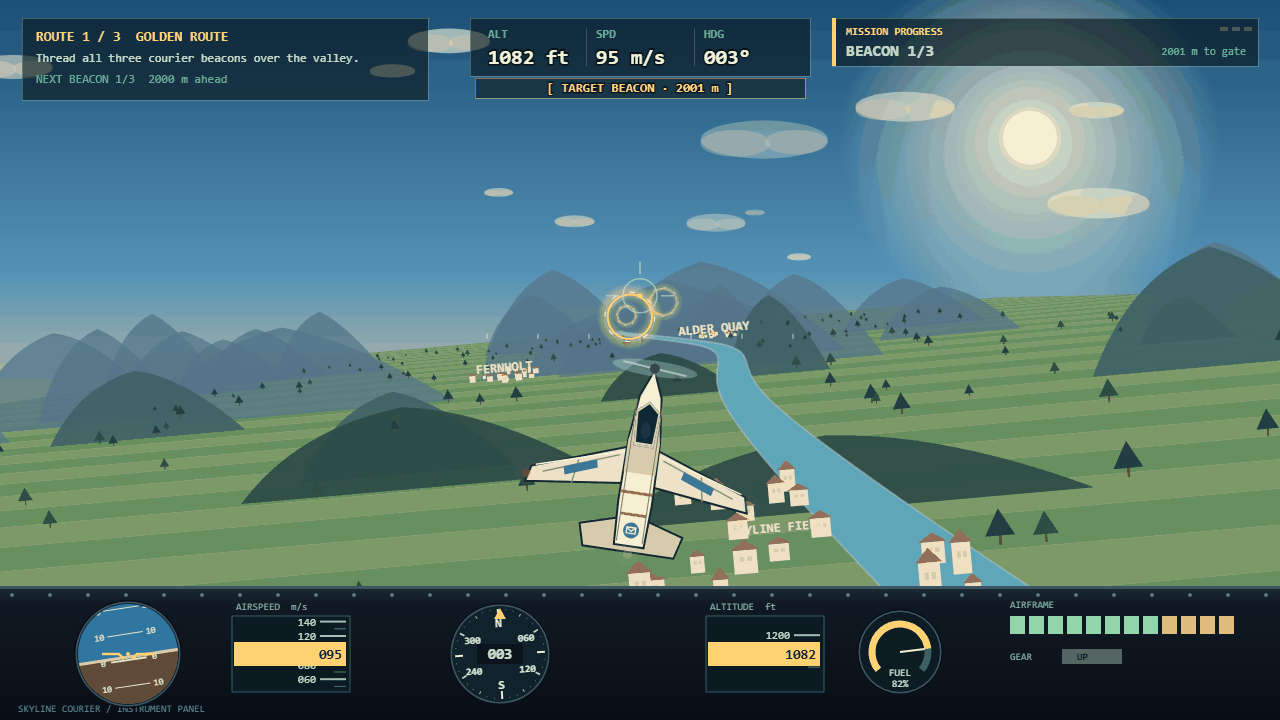
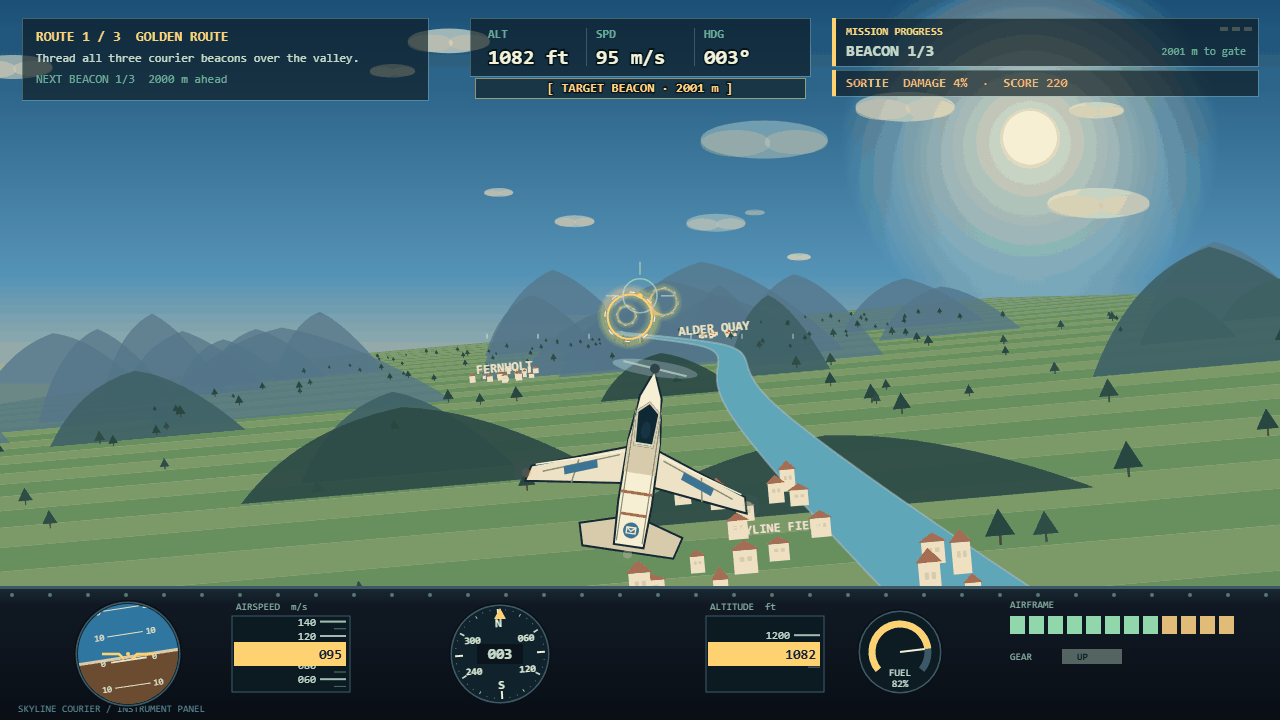
Add sortie damage and score cue to HUD

Changed region(s): [[0.625, 0.0917, 1.0, 0.1528]]

diff --git a/game/src/main.js b/game/src/main.js
@@ -53,6 +53,21 @@ function targetInfo(state) {
   };
 }
 
+// This readout consumes existing state only: hull damage plus a fixed score
+// made from cleared gates, route completion and the remaining target range.
+function sortieStats(state) {
+  const p = state.plane;
+  const mission = MISSIONS[state.missionIndex];
+  const target = targetInfo(state);
+  const damage = Math.max(0, Math.min(100, Math.round(p.damage)));
+  const gates = state.mission.ringsPassed * 350;
+  const cleared = state.mission.complete ? 600 : 0;
+  const approach = mission.kind === 'rings' && !target.done
+    ? Math.max(0, 300 - Math.floor(target.distance / 25))
+    : Math.max(0, Math.round(p.fuel) * 2);
+  return { damage, score: Math.max(0, gates + cleared + approach) };
+}
+
 function drawMissionStrip(ctx, state) {
   const mission = MISSIONS[state.missionIndex];
   const target = targetInfo(state);
@@ -103,6 +118,24 @@ function drawMissionStrip(ctx, state) {
   ctx.fillText(detail, x + w - 12, y + 37);
 }
 
+// A single compact line tucked under the mission strip and beside the callout.
+function drawSortiePanel(ctx, state) {
+  const { damage, score } = sortieStats(state);
+  const text = `SORTIE  DAMAGE ${damage}%  ·  SCORE ${score}`;
+  const x = 832, y = 70, w = 426, h = 26;
+  ctx.fillStyle = 'rgba(8, 20, 25, 0.62)';
+  ctx.fillRect(x, y, w, h);
+  ctx.strokeStyle = 'rgba(150, 220, 185, 0.35)';
+  ctx.lineWidth = 1;
+  ctx.strokeRect(x + 0.5, y + 0.5, w, h);
+  ctx.fillStyle = PALETTE.gold;
+  ctx.fillRect(x, y, 4, h);
+  ctx.textAlign = 'left';
+  ctx.font = 'bold 13px ui-monospace, monospace';
+  ctx.fillStyle = damage > 0 ? PALETTE.warn : PALETTE.hud;
+  ctx.fillText(text, x + 14, y + 17);
+}
+
 // Bracketed target distance in the clear sky below the readouts.
 function drawTargetCallout(ctx, state) {
   const target = targetInfo(state);
@@ -140,6 +173,7 @@ export function render() {
   drawHUD(ctx, state, view);
   drawTargetCallout(ctx, state);
   drawMissionStrip(ctx, state);
+  drawSortiePanel(ctx, state);
 }
 
 let lastFrame = 0;
